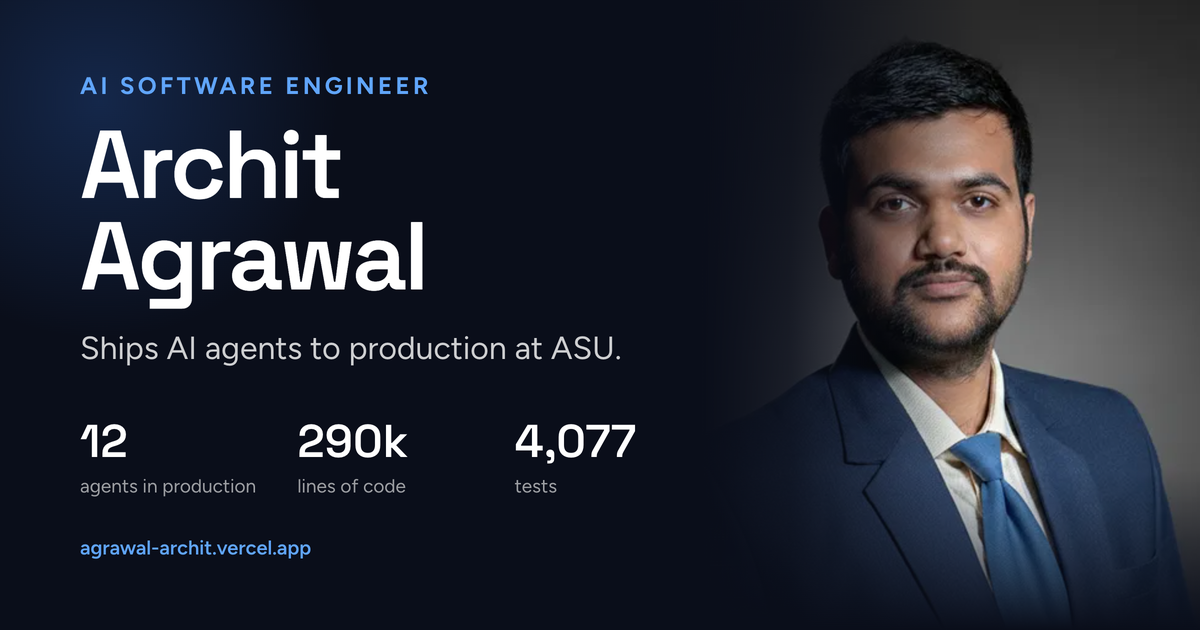
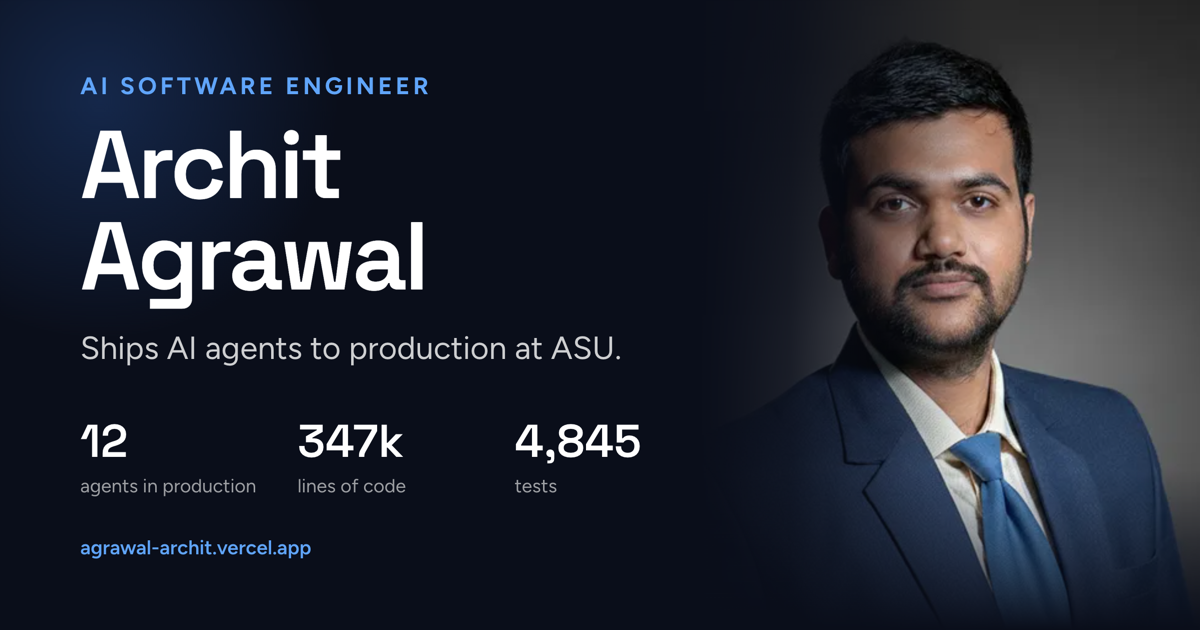
Refresh the site copy with the platform's latest measured results
Home, About, Lab, Projects and the EdPlus role now describe a platform for any table that
checks every answer before showing it: 85% fewer wrong answers, StatQA 68% against GPT-4o's
best reported 64.83%, 93% on the hardest questions with none wrong. The home replay uses real
figures from IBM's public attrition data, and the share card carries the new counts.

diff --git a/lib/data/experience.ts b/lib/data/experience.ts
@@ -32,13 +32,13 @@ export const roles: Role[] = [
           "label": "benchmark pipeline",
           "hit": 13,
           "total": 102,
-          "value": "13 of 102, 12.7%"
+          "value": "12.7% of rows"
         },
         {
           "label": "this platform, repeat runs",
           "hit": 0,
           "total": 114,
-          "value": "0 of 114"
+          "value": "0% of rows"
         }
       ]
     },
@@ -49,19 +49,20 @@ export const roles: Role[] = [
     "period": "May 2026 – Present",
     "featured": [
       0,
+      7,
       1,
       2,
       6
     ],
     "achievements": [
       {
-        "text": "Platform ownership: own the architecture, roadmap and delivery of a platform that turns any uploaded dataset into analysis traceable to its source. Twelve agents over 76 registered tools on Step Functions, 290k lines of TypeScript and Vue across 12 workspace packages, 4,077 tests."
+        "text": "Platform ownership: own the architecture, roadmap and delivery of a platform that turns any uploaded dataset into analysis traceable to its source. Twelve agents over 76 registered tools on Step Functions, 347k lines of TypeScript and Vue across 12 workspace packages, 4,845 tests."
       },
       {
-        "text": "Analyst agent: it sees one line per survey question and never a row, and returns typed intents that code compiles into plans. Headlined claims recovered went from 13% to 52-59% on held-out surveys, at about $0.05 per 13 surveys."
+        "text": "Analyst agent: quadrupled the headline findings a page recovers, 13% to 52-59% on surveys it had never seen, at about $0.05 per 13 surveys. It sees one line per question and never a row; code compiles its choices into plans."
       },
       {
-        "text": "Label reliability: schema-constrained decoding, per-response correlation tokens and citation verification took join integrity to 100% and label churn to zero across 114 of 114 rows. The benchmark pipeline destroyed a label on 13 of 102 rows, 12.7%, without flagging one."
+        "text": "Label reliability: schema-constrained decoding, per-response correlation tokens and citation verification took join integrity to 100% and label churn to zero across 100% of rows. The benchmark pipeline destroyed a label on 1 in 8 rows (12.7%) without flagging one."
       },
       {
         "text": "Charts from plain English: a reader asks a question, gets a chart back, then edits it directly with stack, swap, sort, top-N, filters, and undo with redo."
@@ -74,6 +75,9 @@ export const roles: Role[] = [
       },
       {
         "text": "EdSpace: built in two days for the EdPlus hackathon, a live office map with room booking, desk claiming, walking routes and a 3D desk per person. Shown to leadership up to the CEO and chairman, and going live for 500+ people."
+      },
+      {
+        "text": "Answer checking: cut wrong answers 85% on 164 published figures by reading every answer back in words and judging it before it is shown. 68% on StatQA, above GPT-4o's best reported 64.83%."
       }
     ],
     "technologies": [
@@ -95,12 +99,23 @@ export const roles: Role[] = [
     "kind": "industry",
     "more": [
       {
+        "label": "Benchmarks and checking",
+        "items": [
+          "Held the platform against Claude Opus 5.5 working blind on ten survey files and their 28 published charts: judge-free rules cut wrong charts 93% and oversized charts 100%, while Opus still leads on focus.",
+          "Built four benchmarks scored by code, not a judge: published toplines, nvBench 2.0, StatQA and QRData. StatQA test choice went from 40% to 68%, against GPT-4o's best of 64.83%.",
+          "Added 25 statistical tests checked against scipy and statsmodels, causal effect estimators matching statsmodels, and causal discovery that says \"unsettled\" rather than guess a direction.",
+          "Gave every column one meaning in one place: a census found eight facts each decided in several places, and one semantic model per run took disagreements across 411 runs from 30,405 to 263.",
+          "Made every reading of a file a recorded decision, applied where checked and asked of the reader where a guess would move a number. Code labels are read twice, reversed, and applied only where both agree.",
+          "Moved every component onto one semantic layer after more reasoning and bigger models helped none: accuracy on the hardest questions rose from 60% to 93% with zero wrong."
+        ]
+      },
+      {
         "label": "Highlights in full",
         "items": [
-          "Own the architecture, roadmap and delivery of a platform that takes any structured dataset a team uploads and returns analysis traceable to its source: twelve agents over 76 registered tools, orchestrated by a Step Functions machine generated from a declarative graph, with Distributed Map fan-out, a bounded repair loop and a failure circuit breaker. 290k lines of TypeScript and Vue across 12 workspace packages, 4,077 tests, and no per-dataset pipeline to maintain.",
+          "Own the architecture, roadmap and delivery of a platform that takes any structured dataset a team uploads and returns analysis traceable to its source: twelve agents over 76 registered tools, orchestrated by a Step Functions machine generated from a declarative graph, with Distributed Map fan-out, a bounded repair loop and a failure circuit breaker. 347k lines of TypeScript and Vue across 12 workspace packages, 4,845 tests, and no per-dataset pipeline to maintain.",
           "Shipped the product surface rather than stopping at a pipeline: a reader asks a question in plain English and gets a chart back, then edits it directly - stack, swap, sort, top-N, a second shape, highlight one category, filters on more than one value, and undo with redo - each of which had previously been reachable only by typing exactly the right sentence.",
           "Found where agency actually pays by moving it from executing analyses to choosing them: an analyst agent that sees one line per survey question and never a row returns typed intents that code compiles into plans, taking headlined claims recovered from a published analysis from 13% to 52-59% on held-out surveys against a rule-built baseline, at about $0.05 per 13 surveys.",
-          "Eliminated a previously unmeasured failure mode with schema-constrained decoding, per-response correlation tokens and citation verification: out-of-codebook labels are rejected, silently overwritten rows are detected, join integrity reached 100% and label churn was zero across 114 of 114 rows on repeat runs. The benchmark pipeline destroyed a label on 13 of 102 rows, 12.7%, without flagging one."
+          "Eliminated a previously unmeasured failure mode with schema-constrained decoding, per-response correlation tokens and citation verification: out-of-codebook labels are rejected, silently overwritten rows are detected, join integrity reached 100% and label churn was zero across 100% of rows on repeat runs. The benchmark pipeline destroyed a label on 1 in 8 rows (12.7%) without flagging one."
         ]
       },
       {
@@ -255,7 +270,7 @@ export const roles: Role[] = [
         "text": "Entity resolution: Gemini-based dedupe before records reach Firestore and Algolia lifted downstream search dataset accuracy by 25%."
       },
       {
-        "text": "Monolith to subgraph: refactored a 1,600-LOC Cloud Run service into a callable subgraph, cutting service dependencies 64% from 14 to 5."
+        "text": "Monolith to subgraph: refactored a 1,600-LOC Cloud Run service into a callable subgraph, cutting service dependencies 64%."
       },
       {
         "text": "Search endpoints: FastAPI and Cloud Functions endpoints fronting Algolia for sub-50ms search latency and Firestore for real-time sync."
@@ -292,7 +307,7 @@ export const roles: Role[] = [
           "Factored out a reusable build_scraping_subgraph() factory compiled without a Firestore checkpointer so parent graphs compose it without nested-checkpoint conflicts; added route_entry bridge letting webhook-sourced scrapes skip URL-fetch and enter at extraction.",
           "Implemented interrupt()/resume pause-for-research contract: subgraph idempotently enqueues a domain-research task on missing domain_metadata/{tld}, calls interrupt(f\"domain_research:{tld}\"), resumes from checkpoint when external pipeline flips parent task to ready.",
           "Designed pure-function routing predicates (route_after_sourcing/extraction/resolution) over typed state for deterministic flow; used Send-based parallel image fan-out with per-Send error isolation via operator.add-reduced state field.",
-          "Refactored a monolithic 1,600-LOC Cloud Run service into a callable subgraph with history preserved, a full import-path rewrite, and dependency relocation - cutting service dependencies 64% from 14 to 5."
+          "Refactored a monolithic 1,600-LOC Cloud Run service into a callable subgraph with history preserved, a full import-path rewrite, and dependency relocation - cutting service dependencies 64%."
         ]
       },
       {

diff --git a/lib/data/projects.ts b/lib/data/projects.ts
@@ -29,13 +29,16 @@ export const projects: Project[] = [
     date: "June 2026 – Present",
     tier: "featured",
     description:
-      "Owned end to end, architecture through deployment. Takes any structured dataset from a custom pipeline to zero engineering work: a reader asks a question in plain English, gets a chart, and edits it directly with stacking, sorting, top-N, filters and undo. Proven on public datasets it was never designed for, and every deterministic operation is a tool, so no figure that reaches a stakeholder is ever computed by a model.",
+      "Ask any dataset a question in plain English and get an answer you can make a decision on. Every number is computed by code, cited to the rows it came from, and read back and checked before anyone sees it; when unsure, it asks instead of guessing. Owned end to end, architecture through deployment.",
     highlights: [
-      "Architected and shipped twelve agents over 76 registered tools, orchestrated by a Step Functions machine generated from a declarative graph: Distributed Map fan-out, a bounded repair loop, a 5% failure circuit breaker, 290k lines of TypeScript and Vue, and 4,077 tests.",
+      "Cut wrong answers 85% on 164 published figures by reading every answer back and checking it before it is shown. 68% on StatQA, above GPT-4o's best reported 64.83%.",
+      "Quadrupled the headline findings a page recovers, 13% to 52-59% on surveys it had never seen, with an analyst agent that chooses the analyses while code computes every number.",
+      "Architected and shipped twelve agents over 76 registered tools, orchestrated by a Step Functions machine generated from a declarative graph: Distributed Map fan-out, a bounded repair loop, a 5% failure circuit breaker, 347k lines of TypeScript and Vue, and 4,845 tests.",
       "Schema-constrained decoding plus per-response correlation tokens: out-of-codebook labels rejected, silently overwritten rows detected, and 100% join integrity across recorded runs. The benchmark pipeline lost roughly one row in eight without flagging it.",
       "Questions compile to MBQL plans, clear seven validation checks, then execute over stored facts with DuckDB on a miss. Metrics bind to column kinds, so an unseen survey is answerable on arrival.",
       "Charts are specs, never images: one constrained Vega-Lite spec emits the chart, an accessible data table, alt text, a CSV and an ASCII rendering, with mark selection deterministic.",
       "Every number in a drafted report resolves to a fact the analytics stage computed, or the sentence is redrafted naming the offending figure and then removed.",
+      "Answers statistical and causal questions on any table, and every answer is read back and checked before it is shown: wrong answers on 164 published figures fell 85%, and StatQA test choice reached 68% against GPT-4o's best of 64.83%.",
     ],
     visual: "agents",
     caseStudyUrl: "/work/survey-agents",
@@ -64,12 +67,12 @@ export const projects: Project[] = [
       "Chart agent held to improve-or-discard behind four gates: across the whole evaluation corpus not one proposal beat the rule table, and the single case with headroom scored five different ways across five identical runs. An oracle over the agent's own search space found the scorer's exploits first: a word cloud sized by a free-text column scored a perfect 1.00, which is where the measure gate came from.",
       "Nuxt 4 web app over a NestJS API, both compiling against one shared TypeScript contract, rendering the same specs the CLI prints; DuckDB in-process as the compute engine with no server, and Lance serving vector plus BM25 search straight from S3.",
       "Intake hardened against real files: UTF-16 headers full of null bytes, a duplicate header silently overwriting a column, 0/1 flags typed as rating scales, report titles in the header row, and roughly seven in ten exports hiding their timestamp inside the identifier so a header-trusting pipeline reports no date column while holding the dates the whole time.",
-      "290k lines of TypeScript and Vue across 12 workspace packages, 4,077 tests and roughly 200 measured experiments, each stating what it establishes and what it does not, including that at equal model the pipeline ties a single prompt on F1, that every accuracy number is self-graded, and that the page answered 6 of 32 questions a survey asked while every chart-level score looked healthy.",
+      "347k lines of TypeScript and Vue across 12 workspace packages, 4,845 tests and roughly 200 measured experiments, each stating what it establishes and what it does not, including that at equal model the pipeline ties a single prompt on F1, that every accuracy number is self-graded, and that the page answered only 19% of the questions a survey asked while every chart-level score looked healthy.",
       "Located where agency pays rather than assuming it: the agent ties or loses at executing a chart, coding a response and sequencing a pipeline, and beats its rule baseline 13% to 52-59% on held-out surveys when it chooses which of a survey's questions deserve a chart at all.",
       "Codebook fit is checked before any spend: question scope is embedded and 25 responses are sample-labeled, giving mean best match 0.598 with a 4% abstain rate on the right codebook against 0.316 and 88% on the wrong one, for about $0.001. The thresholds written from a guess before calibration ran would have let the wrong codebook through with a warning.",
       "Upload identity is content, not filename: a normalized content hash means two people uploading the same export get one run instead of two conflicting sets of numbers for one survey, and the first sighting wins for the wave's date.",
       "Run lineage on two axes with four relations (relabel, recode, wave, wave_recoded), because only a new wave may claim topic movement. A second labeling pass over the same responses cannot present itself as a trend.",
-      "Cross-run comparison guarded by what the runs actually are: 9 of 13 recorded runs are the same respondents, so a pooled total is refused where a dimension is missing, drift across unequal runs is reported as a share rather than a count, and the axis is never assumed to be time.",
+      "Cross-run comparison guarded by what the runs actually are: 69% of recorded runs are the same respondents, so a pooled total is refused where a dimension is missing, drift across unequal runs is reported as a share rather than a count, and the axis is never assumed to be time.",
       "Cross-codebook mappings earn trust by behaving alike: a proposal is checked against the co-occurrence and sentiment profiles of both codes before confirmation, and carries an SSSOM predicate so a narrowMatch is never aggregated as an exact match. Two real codebooks produced 0 lexical proposals, which is itself the finding.",
       "Time buckets follow the academic calendar rather than the Gregorian one, because a month boundary falls mid-semester and term-to-term is the comparison a reader can act on.",
       "Deterministic insight sweep says what stands out the moment an upload finishes, corrected for multiple comparisons, every claim resolving to a fact. Building it surfaced two false-discovery traps: correcting after an effect-size filter, and a null model that preserved the sparsity pattern, both of which made noise look like findings.",
@@ -81,6 +84,10 @@ export const projects: Project[] = [
       "Five reproducible scaling proofs instead of slides: 200x rows at unchanged ask latency, cross-scope queries over 216 runs in milliseconds, zero-model-call replays, namespace and entitlement checks, and byte-identical re-execution from a passport.",
       "Skills authored in the open Agent Skills standard and loaded into the cached system prefix, then held to the same bar as everything else: the first one changed no outcome on the batch and cost slightly less, which is the result rather than the pitch.",
       "A review stage that reads the finished profile instead of each decision, because per-decision gates are blind to upstream bugs. Verified by reintroducing a known sampler defect (a stride that aliased against alternating data and silently halved a dimension's values on any file over ~200 rows) and confirming the stage catches what the gates missed.",
+      "Held against Claude Opus 5.5 working blind on ten survey files: judge-free rules cut wrong charts 93% and oversized charts 100%, while Opus still leads on focus.",
+      "One semantic model per run: a census found eight column facts each decided in several places, and moving every reader onto one model took disagreements across 411 runs from 30,405 to 263.",
+      "Every reading of a file is a recorded decision: code labels are read twice, the second time reversed, applied only where both agree, and asked of the reader where a guess would move a number.",
+      "One semantic layer for every component raised accuracy on the hardest questions from 60% to 93% with zero wrong, after more reasoning and bigger models helped none.",
     ],
     technologies: [
       "TypeScript",

diff --git a/components/site/replay.tsx b/components/site/replay.tsx
@@ -6,16 +6,16 @@ import { useReduce } from "@/components/site/use-reduce";
 
 const ease = [0.22, 1, 0.36, 1] as const;
 
-/* A short, looping replay of the survey platform: ask, chart, cite.
-   Illustrative only: the topics and numbers are example data, not ASU results. */
-const QUESTION = "Which topics drove course satisfaction down this term?";
+/* A short, looping replay of the platform: ask, chart, cite, check.
+   Real figures from IBM's public HR attrition dataset (1,470 rows), as the platform draws them. */
+const QUESTION = "What share of employees left, by whether they work overtime?";
 const BARS = [
-  { label: "Workload", value: 38 },
-  { label: "Feedback speed", value: 27 },
-  { label: "Clarity", value: 19 },
-  { label: "Tech issues", value: 11 },
+  { label: "Overtime", value: 30.5 },
+  { label: "Everyone", value: 16.1 },
+  { label: "No overtime", value: 10.4 },
 ];
-const CITES = ["fact 12: 38% of comments", "fact 7: n = 1,240", "fact 19: +9 pts vs. fall"];
+const CITES = ["127 of 416", "237 of 1,470", "110 of 1,054"];
+const CHECK = "checked: matches the published 30.5%";
 
 type Phase = "typing" | "chart" | "cites" | "hold";
 
@@ -52,7 +52,7 @@ export function Replay() {
   const showCites = phase === "cites" || phase === "hold";
 
   return (
-    <div aria-label="Illustrative replay: a question about a survey, answered with a chart and cited facts">
+    <div aria-label="Replay: a question about a public HR dataset, answered with a chart, cited counts and a check">
       <p className="t-eyebrow">Ask</p>
       <p className="mt-2 min-h-[3em] text-[15px] font-medium leading-snug text-foreground">
         {QUESTION.slice(0, typed)}
@@ -77,7 +77,7 @@ export function Replay() {
               animate={{ opacity: showChart ? 1 : 0 }}
               transition={{ duration: reduce ? 0 : 0.3, delay: showChart ? 0.35 + i * 0.1 : 0 }}
             >
-              {b.value}%
+              {b.value.toFixed(1)}%
             </motion.span>
           </div>
         ))}
@@ -98,9 +98,21 @@ export function Replay() {
                 {c}
               </motion.span>
             ))}
+          {showCites && (
+            <motion.span
+              key={"check" + loop}
+              initial={reduce ? false : { opacity: 0, y: 6, scale: 0.95 }}
+              animate={{ opacity: 1, y: 0, scale: 1 }}
+              exit={{ opacity: 0 }}
+              transition={{ duration: 0.35, ease, delay: 0.45 }}
+              className="ui-chip !text-[12px] !text-primary"
+            >
+              {CHECK}
+            </motion.span>
+          )}
         </AnimatePresence>
       </div>
-      <p className="t-meta mt-3 !text-[13px]">Example data, not real survey results.</p>
+      <p className="t-meta mt-3 !text-[13px]">IBM&apos;s public HR attrition data, 1,470 rows.</p>
     </div>
   );
 }

diff --git a/lib/data/lab.ts b/lib/data/lab.ts
@@ -17,18 +17,39 @@ export interface Experiment {
 export const experiments: Experiment[] = [
   {
     project: "Survey Agents",
-    stat: "290k",
-    unit: "lines, 4,077 tests",
+    stat: "347k",
+    unit: "lines, 4,845 tests",
     title: "Twelve production agents",
     body: "Architecture through deployment on AWS: 76 tools, a state machine generated from a declarative graph, parallel fan-out with a failure circuit breaker, and a Nuxt and NestJS app on one shared TypeScript contract.",
   },
   {
     project: "Survey Agents",
-    stat: "4.5×",
+    stat: "4×",
     unit: "more headline findings found",
-    title: "An agent that picks charts",
+    title: "4× the headline findings",
     viz: "findings",
     body: "Instead of charting every question, an agent picks the ones that matter. Headline findings recovered went from 13% to 52–59% on surveys it had never seen, for about $0.05 per 13 surveys.",
+  },
+  {
+    project: "Survey Agents",
+    stat: "85%",
+    unit: "fewer wrong answers. StatQA 68%, GPT-4o's best 64.83%",
+    title: "Answers checked before shown",
+    body: "Answers statistical and causal questions on any table: 25 tests checked against scipy and statsmodels, and causal estimators that match statsmodels. Every answer is read back in words and judged before a reader sees it, which cut wrong answers on 164 published figures by 85%.",
+  },
+  {
+    project: "Survey Agents",
+    stat: "93%",
+    unit: "right on the hardest questions, 0 wrong",
+    title: "Zero wrong on the hardest questions",
+    body: "Accuracy on the hardest benchmark questions rose from 60% to 93%, with zero wrong answers. More reasoning and bigger models were tried first and helped none; giving every component one shared layer of facts about the file did.",
+  },
+  {
+    project: "Survey Agents",
+    stat: "100%",
+    unit: "of charts match a raw-CSV audit",
+    title: "File to chart, audited",
+    body: "IBM's public attrition data traced through every step, from shape detection to the chart: 30.5% of overtime workers left against 10.4%, the published figure, and an audit with none of the engine's code matched 100% of checkable charts.",
   },
   {
     project: "Survey Agents",

diff --git a/app/page.tsx b/app/page.tsx
@@ -80,8 +80,8 @@ export default async function Home() {
             className="mt-20"
             items={[
               [<CountUp key="a" value="12" />, "agents in production"],
-              [<CountUp key="b" value="290k" />, "lines of code"],
-              [<CountUp key="c" value="4,077" />, "tests behind them"],
+              [<CountUp key="b" value="347k" />, "lines of code"],
+              [<CountUp key="c" value="4,845" />, "tests behind them"],
               [<CountUp key="d" value="60,000+" />, "students reached"],
             ]}
           />
@@ -90,8 +90,10 @@ export default async function Home() {
             <div className="grid gap-10 lg:grid-cols-[minmax(0,1fr)_17rem] lg:items-start">
               <div>
                 <p className="t-body max-w-[34rem] text-muted-foreground">
-                  Upload a survey export, ask it a question in plain English, and get a chart where every number traces back
-                  to the data. Twelve agents in production on AWS.
+                  Ask any dataset a question in plain English and get an answer you can make a decision on. Every
+                  number is computed by code, cited to its rows and checked before you see it: 85% fewer wrong answers
+                  on 164 published figures, and 68% on StatQA, above GPT-4o&apos;s best reported score. Twelve agents in
+                  production on AWS.
                 </p>
                 <TextLink href="/work/survey-agents" className="mt-5">
                   Case study

diff --git a/app/about/page.tsx b/app/about/page.tsx
@@ -28,8 +28,9 @@ export default async function AboutPage() {
         <Reveal className="t-lead max-w-[36rem] space-y-6">
           <p>
             I finished my MS in Computer Science at Arizona State with a 4.0 and stayed on at EdPlus, where I own an
-            analytics platform end to end. You upload a survey export, ask a question in plain English, and it answers
-            with a chart whose numbers trace back to the data.
+            analytics platform end to end. You upload any table, ask a question in plain English, and it answers with
+            a chart whose numbers trace back to the data, including statistical tests and causal estimates, each one
+            read back and checked before you see it.
           </p>
           <p>
             Before that I was the founding AI/ML engineer at MyStage, where I rebuilt a 14-function pipeline as one

diff --git a/app/og/page.tsx b/app/og/page.tsx
@@ -9,8 +9,8 @@ export const metadata: Metadata = { title: "Share card", robots: { index: false,
 export default function OgCard() {
   const stats = [
     ["12", "agents in production"],
-    ["290k", "lines of code"],
-    ["4,077", "tests"],
+    ["347k", "lines of code"],
+    ["4,845", "tests"],
   ];
   return (
     <div id="og-card" className="relative h-[630px] w-[1200px] overflow-hidden bg-[#0a0e1a] font-sans text-white">
